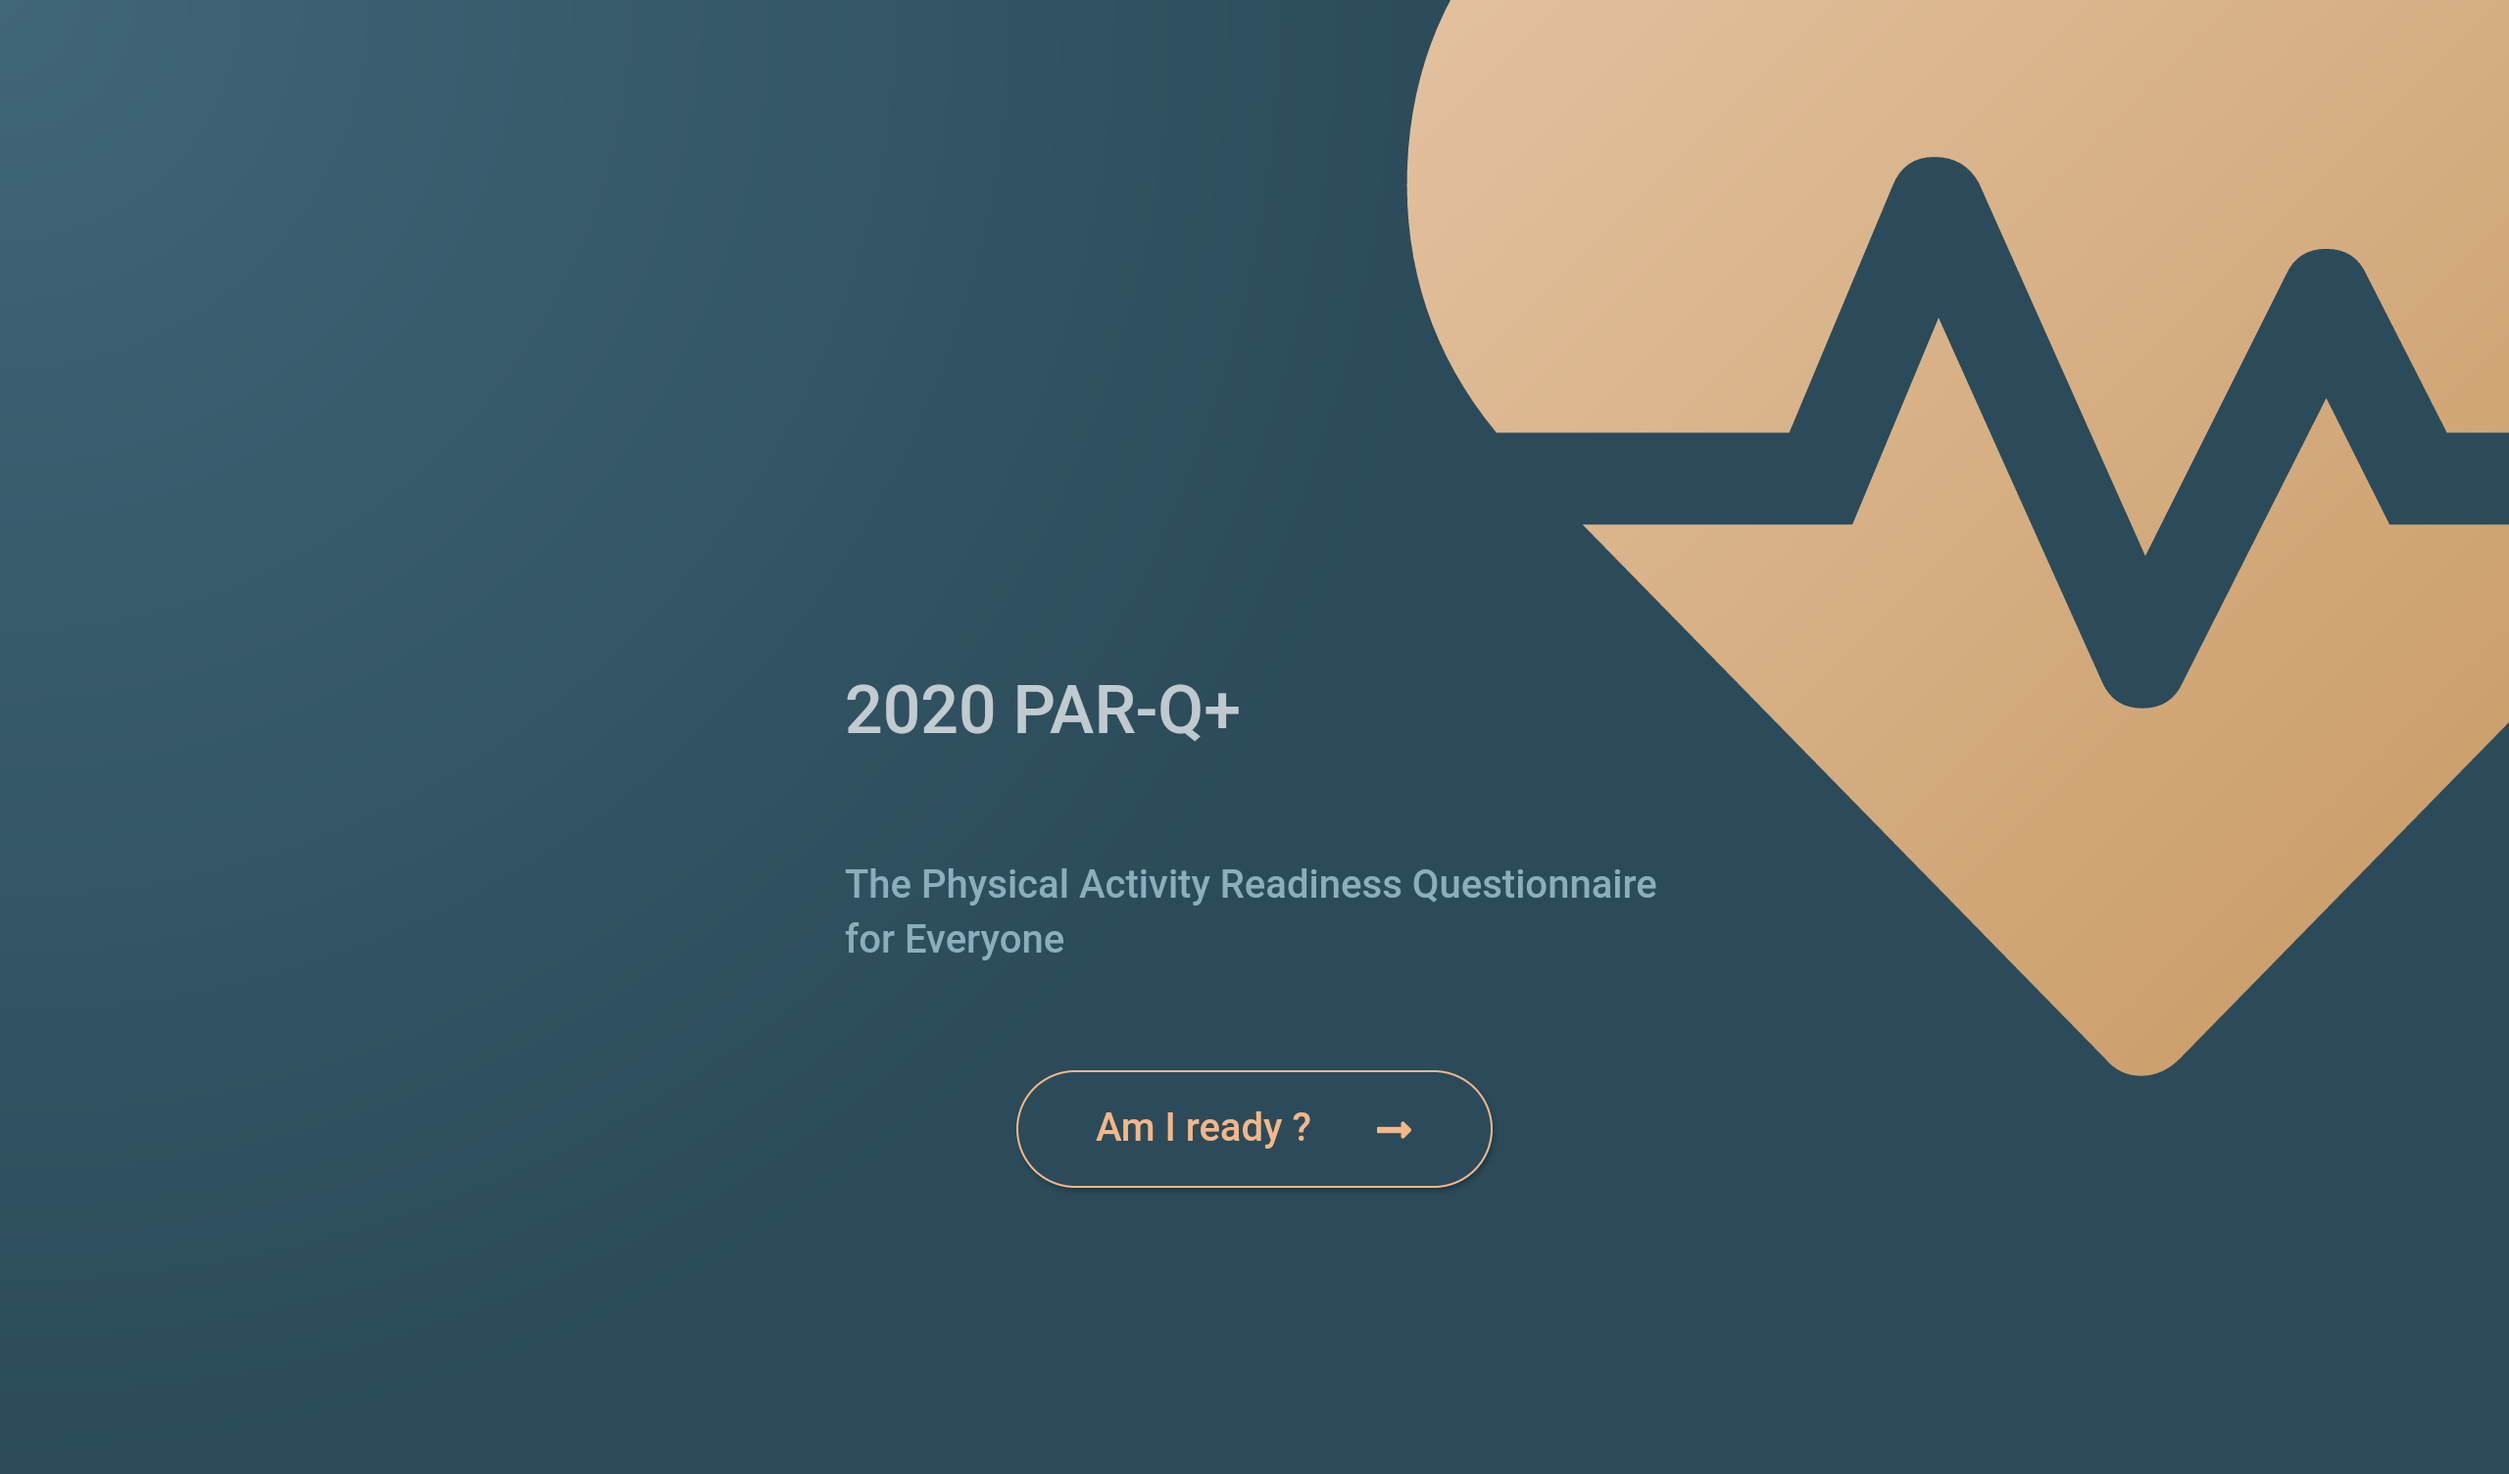
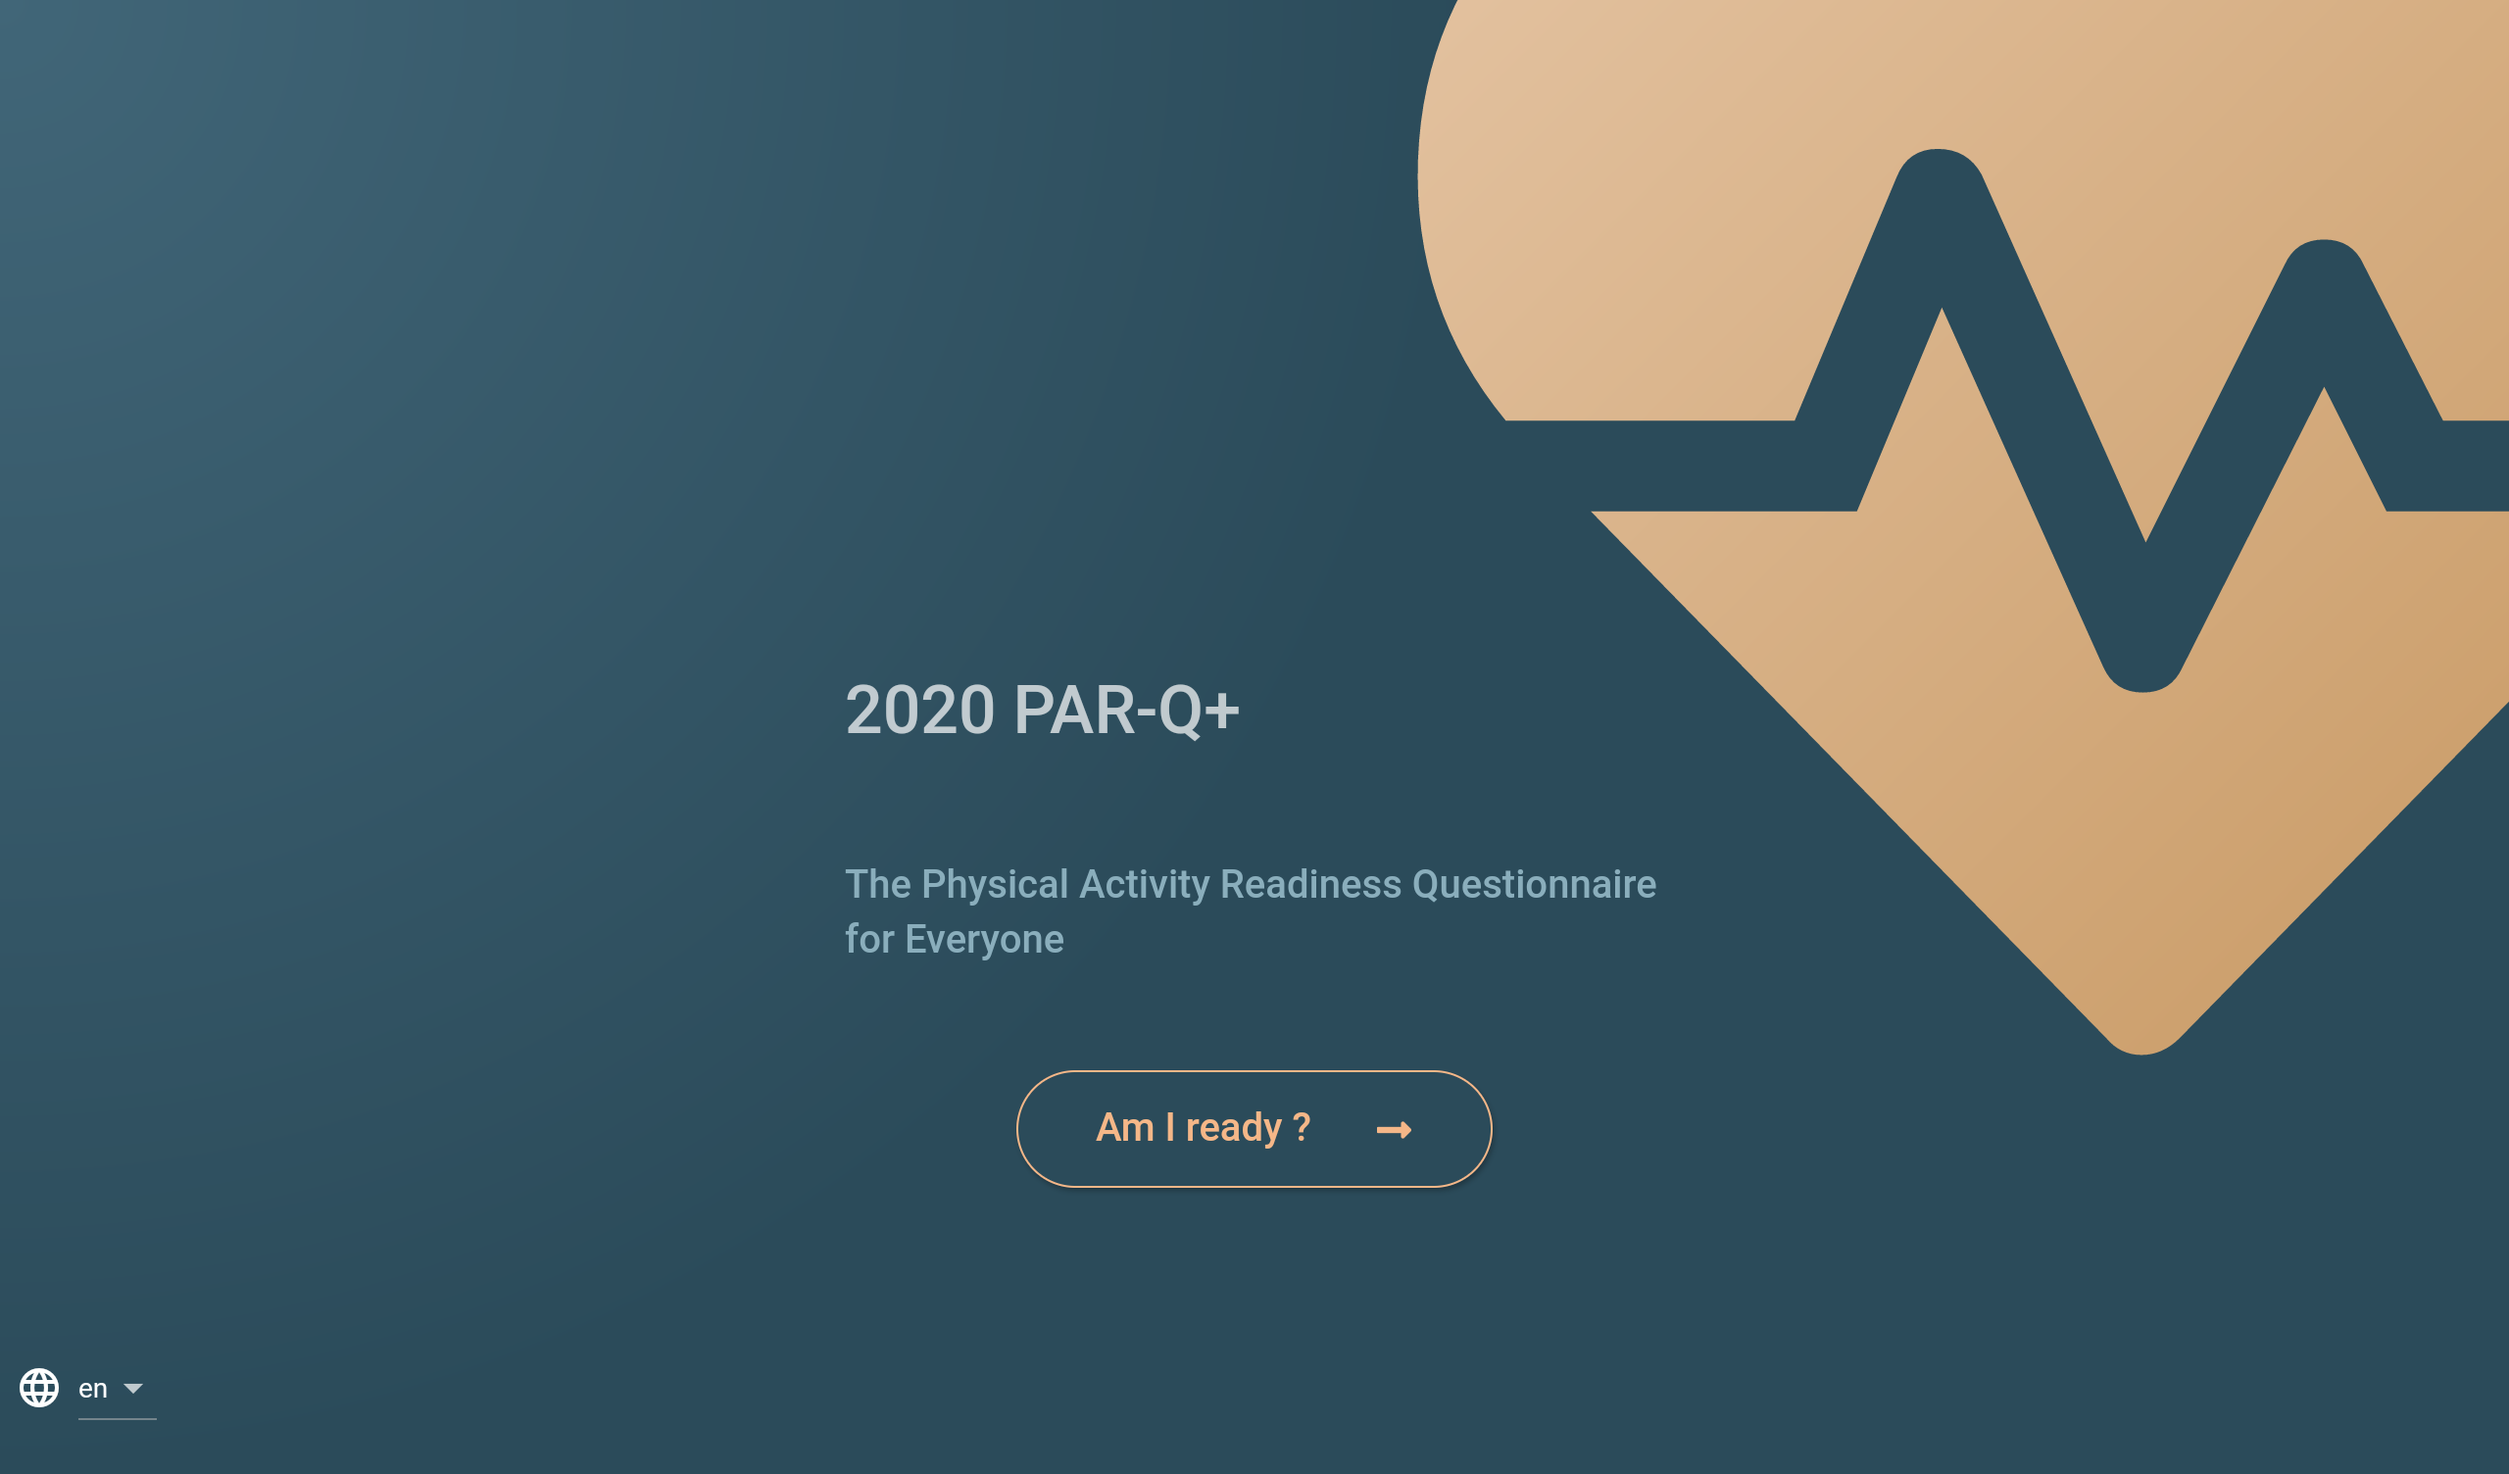
- Edit of "About" information

diff --git a/lib/common_widgets/my_show_about_dialog.dart b/lib/common_widgets/my_show_about_dialog.dart
@@ -31,35 +31,29 @@ void myShowAboutDialog(BuildContext context) async {
                       'https://louisdeveseleer.com',
                     ),
             ),
+            TextSpan(text: ' with permission from the PAR-Q+ Collaboration ('),
+            TextSpan(
+              text: 'www.eparmedx.com',
+              style: DefaultTextStyle.of(context)
+                  .style
+                  .copyWith(color: Colors.blue),
+              recognizer: TapGestureRecognizer()
+                ..onTap = () => launchURL(
+                      'https://www.eparmedx.com',
+                    ),
+            ),
+            TextSpan(
+                text:
+                    ') and the authors of the PAR-Q+ (Dr. Darren Warburton, Dr. Norman Gledhill, Dr. Veronica Jamnik, Dr. Roy Shephard, and Dr. Shannon Bredin).'),
           ],
         ),
       ),
       SizedBox(
         height: 8,
       ),
-      RichText(
-        text: TextSpan(
-          children: <TextSpan>[
-            TextSpan(
-              text: 'The information given is based on ',
-            ),
-            TextSpan(
-              text: ' http://eparmedx.com/ ',
-              style: DefaultTextStyle.of(context)
-                  .style
-                  .copyWith(color: Colors.blue),
-              recognizer: TapGestureRecognizer()
-                ..onTap = () => launchURL(
-                      'http://eparmedx.com/',
-                    ),
-            ),
-            TextSpan(
-              text:
-                  'and is given here in good faith and offers no guarantee of any kind. The advice contained does not substitute to medical advice.',
-            ),
-          ],
-        ),
-      )
+      Text(
+        'The information given here offers no guarantee of any kind. The advice contained does not substitute to medical advice.',
+      ),
     ],
   );
 }

diff --git a/lib/welcome_page.dart b/lib/welcome_page.dart
@@ -43,7 +43,7 @@ class _WelcomePageState extends State<WelcomePage> {
                 ),
               ),
               Positioned(
-                top: 20,
+                bottom: 20,
                 left: 8,
                 child: Row(
                   children: [
@@ -142,6 +142,7 @@ class LanguageDropdown extends StatelessWidget {
   Widget build(BuildContext context) {
     return Container(
       child: DropdownButton<String>(
+        key: Key(Keys.languageDropdownButton),
         value: Intl.getCurrentLocale(),
         onChanged: (String newValue) {
           callback();
@@ -150,6 +151,7 @@ class LanguageDropdown extends StatelessWidget {
         items: S.delegate.supportedLocales
             .map<DropdownMenuItem<String>>((Locale locale) {
           return DropdownMenuItem<String>(
+            key: Key(locale.languageCode),
             value: locale.languageCode,
             child: Text(locale.languageCode),
           );

diff --git a/test_driver/app_test.dart b/test_driver/app_test.dart
@@ -43,9 +43,10 @@ void main() {
 
     void launchTest({String locale: 'en'}) {
       test('test whole app', () async {
-//change language
-        await takeScreenshot(driver, '$locale-welcomeScreen');
         await driver.runUnsynchronized(() async {
+          await tapButton(Keys.languageDropdownButton);
+          await tapButton(locale);
+          await takeScreenshot(driver, '$locale-welcomeScreen');
           await tapButton(Keys.welcomePageButton);
         });
         await tapButton(Keys.ghqIntroButton);

diff --git a/lib/keys.dart b/lib/keys.dart
@@ -10,4 +10,5 @@ class Keys {
   static const String ghqFollowUpButton = 'ghqFollowUpButton';
   static const String fuqYesButton = 'fuqYesButton';
   static const String fuqNoButton = 'fuqNoButton';
+  static const String languageDropdownButton = 'languageDropdownButton';
 }
